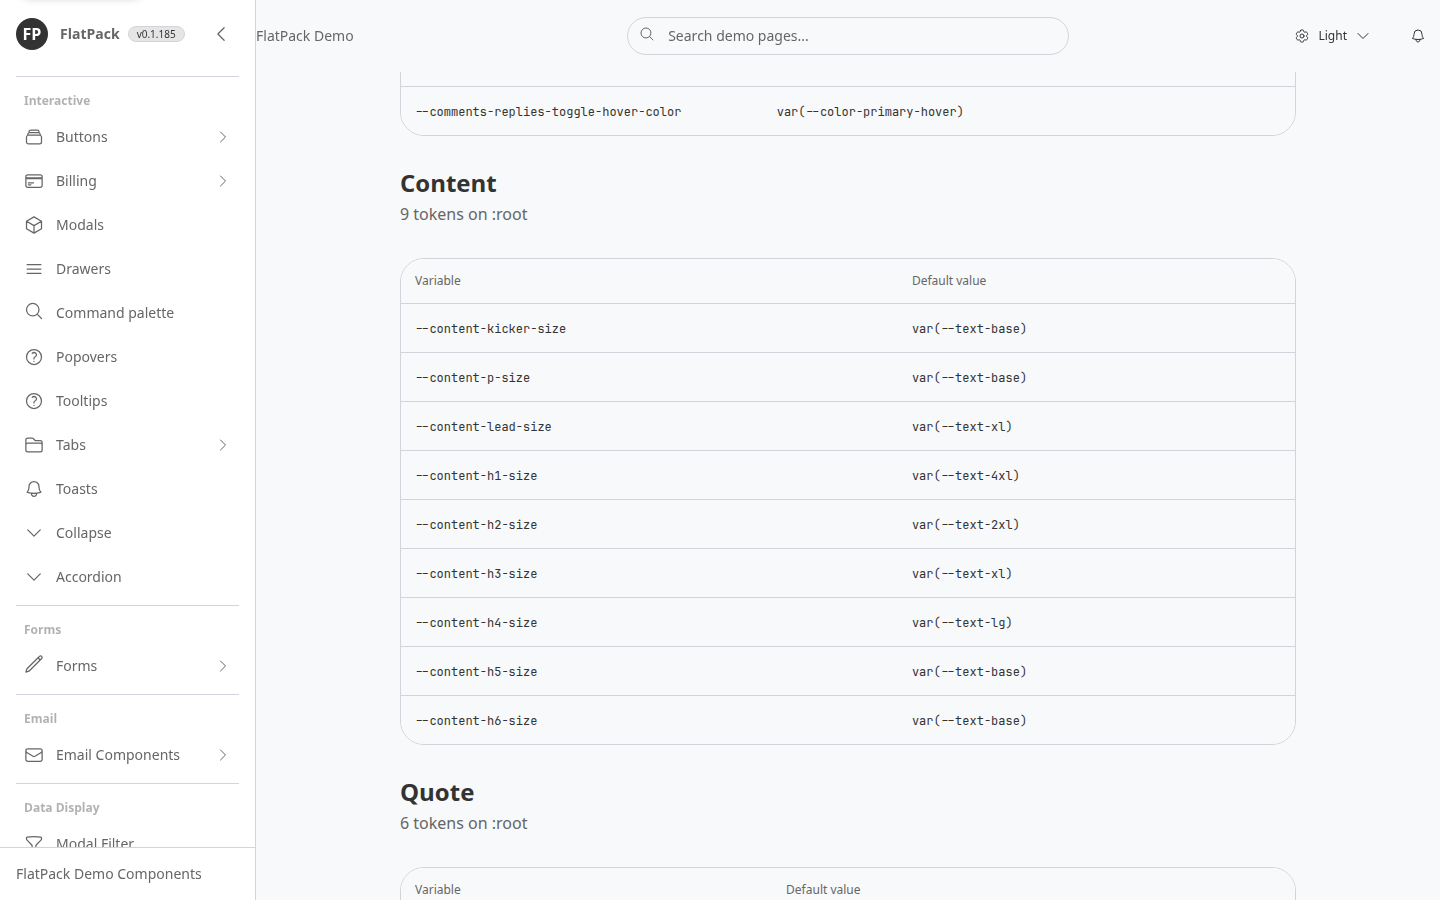
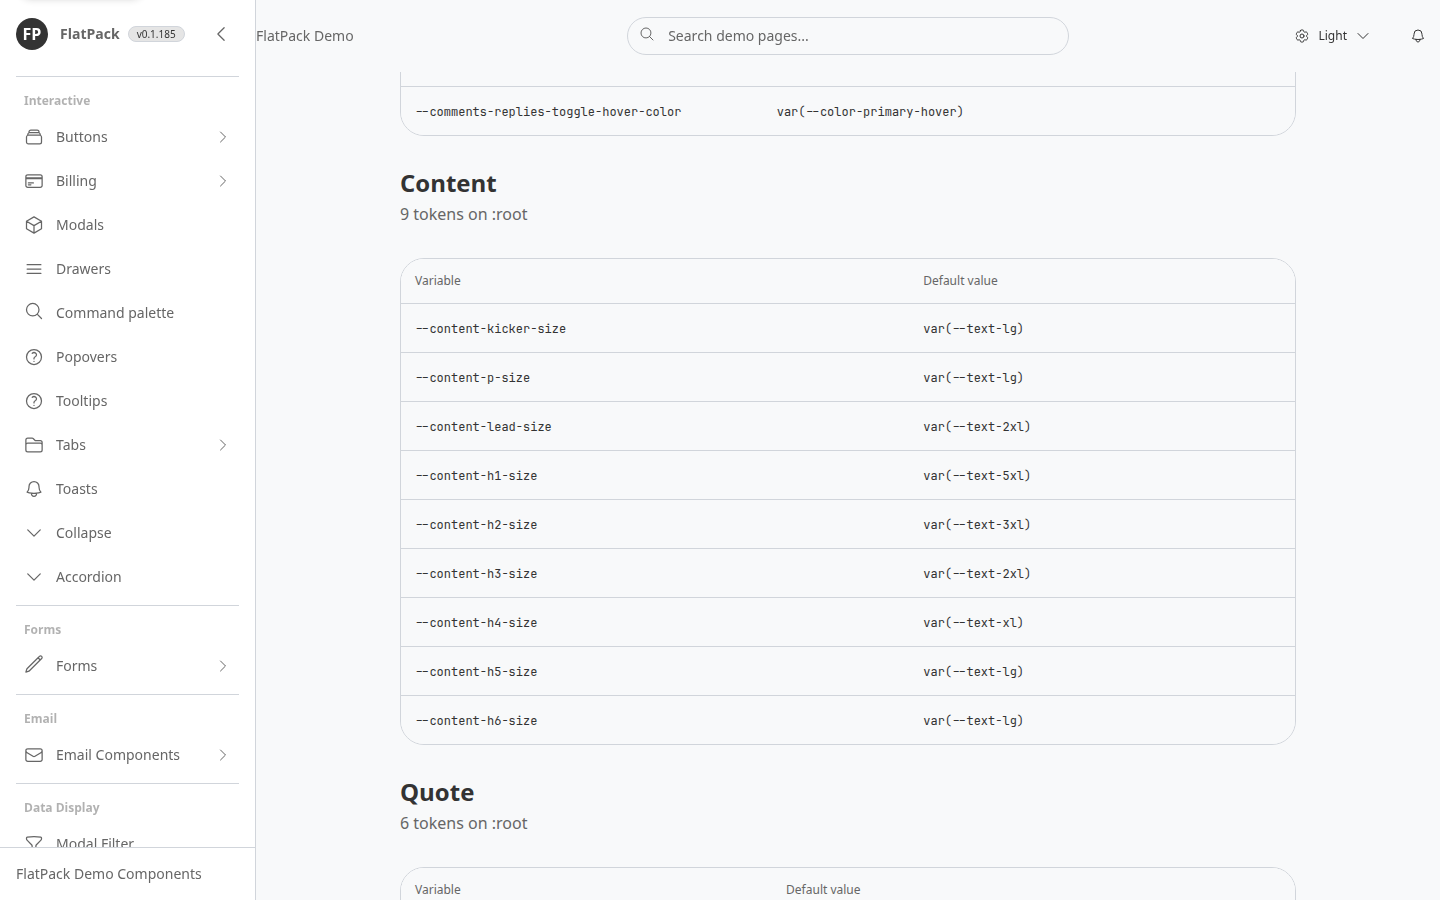
feat(content): bind reading type to --text-lg body
Rebind --content-*-size one step up the kit scale so body and kicker are 18px. Drop the sm h1 override now that --content-h1-size is --text-5xl.

diff --git a/app/assets/stylesheets/flat_pack/application.css b/app/assets/stylesheets/flat_pack/application.css
@@ -419,7 +419,7 @@
 
 /* Long-form reading type. Unlayered so Tailwind preflight cannot collapse
  * headings to inherit. Bare CMS HTML (h1, p, ul) picks up the same scale as
- * the main Content demo: kicker, display title, lead, then body at 16px / 1.75
+ * the main Content demo: kicker, display title, lead, then body at 18px / 1.75
  * with 2rem stack and 2.5rem after the lead.
  */
 .fp-content {
@@ -435,44 +435,38 @@
 }
 
 .fp-content h1 {
-  font-size: var(--content-h1-size, var(--text-4xl, 2.25rem));
+  font-size: var(--content-h1-size, var(--text-5xl, 3rem));
   font-weight: 600;
   margin-top: 0.5rem;
 }
 
-@media (min-width: 640px) {
-  .fp-content h1 {
-    font-size: var(--text-5xl, 3rem);
-  }
-}
-
 .fp-content h2 {
-  font-size: var(--content-h2-size, var(--text-2xl, 1.5rem));
+  font-size: var(--content-h2-size, var(--text-3xl, 1.875rem));
   font-weight: 700;
   margin-top: 2rem;
 }
 
 .fp-content h3 {
-  font-size: var(--content-h3-size, var(--text-xl, 1.25rem));
+  font-size: var(--content-h3-size, var(--text-2xl, 1.5rem));
   font-weight: 700;
   margin-top: 2rem;
 }
 
 .fp-content h4 {
-  font-size: var(--content-h4-size, var(--text-lg, 1.125rem));
+  font-size: var(--content-h4-size, var(--text-xl, 1.25rem));
   font-weight: 700;
   margin-top: 2rem;
 }
 
 .fp-content h5,
 .fp-content h6 {
-  font-size: var(--content-h5-size, var(--text-base, 1rem));
+  font-size: var(--content-h5-size, var(--text-lg, 1.125rem));
   font-weight: 700;
   margin-top: 2rem;
 }
 
 .fp-content h6 {
-  font-size: var(--content-h6-size, var(--text-base, 1rem));
+  font-size: var(--content-h6-size, var(--text-lg, 1.125rem));
 }
 
 .fp-content p,
@@ -481,7 +475,7 @@
 }
 
 .fp-content p {
-  font-size: var(--content-p-size, var(--text-base, 1rem));
+  font-size: var(--content-p-size, var(--text-lg, 1.125rem));
   line-height: 1.75;
   margin-top: 2rem;
 }
@@ -489,7 +483,7 @@
 .fp-content > p:first-child:has(+ :is(h1, h2, h3)),
 .fp-content .fp-content-kicker {
   color: var(--color-primary);
-  font-size: var(--content-kicker-size, var(--text-base, 1rem));
+  font-size: var(--content-kicker-size, var(--text-lg, 1.125rem));
   font-weight: 600;
   line-height: 1.75;
   margin-top: 0;
@@ -497,7 +491,7 @@
 
 .fp-content h1 + p,
 .fp-content .fp-content-lead {
-  font-size: var(--content-lead-size, var(--text-xl, 1.25rem));
+  font-size: var(--content-lead-size, var(--text-2xl, 1.5rem));
   line-height: 2;
   margin-top: 1.5rem;
 }

diff --git a/app/assets/stylesheets/flat_pack/variables.css b/app/assets/stylesheets/flat_pack/variables.css
@@ -1189,15 +1189,15 @@ input.flat-pack-input[type="search"]::-ms-reveal {
   --page-title-h4-size: var(--text-xl);
   --page-title-h5-size: var(--text-lg);
   --page-title-h6-size: var(--text-base);
-  --content-kicker-size: var(--text-base);
-  --content-p-size: var(--text-base);
-  --content-lead-size: var(--text-xl);
-  --content-h1-size: var(--text-4xl);
-  --content-h2-size: var(--text-2xl);
-  --content-h3-size: var(--text-xl);
-  --content-h4-size: var(--text-lg);
-  --content-h5-size: var(--text-base);
-  --content-h6-size: var(--text-base);
+  --content-kicker-size: var(--text-lg);
+  --content-p-size: var(--text-lg);
+  --content-lead-size: var(--text-2xl);
+  --content-h1-size: var(--text-5xl);
+  --content-h2-size: var(--text-3xl);
+  --content-h3-size: var(--text-2xl);
+  --content-h4-size: var(--text-xl);
+  --content-h5-size: var(--text-lg);
+  --content-h6-size: var(--text-lg);
   --shadow-sm: 0 2px 6px -2px rgb(0 0 0 / 0.08);
   --shadow-md: 0 8px 18px -6px rgb(0 0 0 / 0.14);
   --shadow-lg: 0 18px 30px -10px rgb(0 0 0 / 0.18);

diff --git a/test/lib/flat_pack/type_tokens_test.rb b/test/lib/flat_pack/type_tokens_test.rb
@@ -22,10 +22,15 @@ module FlatPack
       assert_match(/--text-5xl:\s*3rem/, root_block)
       assert_match(/--page-title-h1-size:\s*var\(--text-4xl\)/, root_block)
       assert_match(/--page-title-h6-size:\s*var\(--text-base\)/, root_block)
-      assert_match(/--content-p-size:\s*var\(--text-base\)/, root_block)
-      assert_match(/--content-h1-size:\s*var\(--text-4xl\)/, root_block)
-      assert_match(/--content-h2-size:\s*var\(--text-2xl\)/, root_block)
-      assert_match(/--content-h6-size:\s*var\(--text-base\)/, root_block)
+      assert_match(/--content-p-size:\s*var\(--text-lg\)/, root_block)
+      assert_match(/--content-kicker-size:\s*var\(--text-lg\)/, root_block)
+      assert_match(/--content-lead-size:\s*var\(--text-2xl\)/, root_block)
+      assert_match(/--content-h1-size:\s*var\(--text-5xl\)/, root_block)
+      assert_match(/--content-h2-size:\s*var\(--text-3xl\)/, root_block)
+      assert_match(/--content-h3-size:\s*var\(--text-2xl\)/, root_block)
+      assert_match(/--content-h4-size:\s*var\(--text-xl\)/, root_block)
+      assert_match(/--content-h5-size:\s*var\(--text-lg\)/, root_block)
+      assert_match(/--content-h6-size:\s*var\(--text-lg\)/, root_block)
     end
 
     test "root applies the kit face and antialiased smoothing" do
@@ -47,8 +52,9 @@ module FlatPack
       assert_includes css, ".fp-text-pretty"
       assert_includes css, "text-wrap: pretty"
       assert_includes css, ".fp-content"
-      assert_includes css, "font-size: var(--content-p-size, var(--text-base, 1rem))"
-      assert_includes css, "font-size: var(--content-h1-size, var(--text-4xl, 2.25rem))"
+      assert_includes css, "font-size: var(--content-p-size, var(--text-lg, 1.125rem))"
+      assert_includes css, "font-size: var(--content-h1-size, var(--text-5xl, 3rem))"
+      refute_match(/@media \(min-width: 640px\) \{\s*\.fp-content h1/, css)
       assert_includes css, "/* Long-form reading type. Unlayered so Tailwind preflight cannot collapse"
     end
 

diff --git a/test/dummy/test/requests/pages_demo_routes_test.rb b/test/dummy/test/requests/pages_demo_routes_test.rb
@@ -673,7 +673,7 @@ class PagesDemoRoutesTest < ActionDispatch::IntegrationTest
     assert_includes response.body, "One-Click Distribution."
     assert_includes response.body, "No Publisher? No Problem."
     refute_includes response.body, "class=\"mt-2 text-4xl"
-    assert_includes response.body, "FlatPack::Content::Component.new"
+    assert_includes response.body, "Body is 18px."
     assert_includes response.body, ">content</td>"
     assert_includes response.body, ">h1 / p / ul</td>"
     assert_includes response.body, "**system_arguments"

diff --git a/docs/theming.md b/docs/theming.md
@@ -243,7 +243,7 @@ Kit CSS defines `.fp-hit-target`, `.fp-hit-target-inline`, and `.fp-hit-slop`. `
 
 `--font-*` and `--text-*` are set on `:root` (not only inside `@theme`). `:root` also sets `font-family: var(--font-sans)` and antialiased smoothing. Hosts override `--font-sans` with a brand face. There is no kit webfont. If host Tailwind loads last, re-set `--font-sans` and the kit `--radius-*` values on unlayered `:root` in the host stylesheet — Tailwind’s `@layer theme` stack otherwise replaces the kit face and the kit radii (rich-text chrome follows `--radius-md`).
 
-`--page-title-h1-size` through `--page-title-h6-size` alias `--text-4xl` down to `--text-base`. `--content-p-size` is `--text-base` (16px). `--content-h1-size` is `--text-4xl` (2.25rem; 3rem from `640px`). `--content-h2-size` is `--text-2xl`. `--content-lead-size` and `--content-kicker-size` cover the dek and the label above the title. Bare tags inside `.fp-content` pick these up.
+`--page-title-h1-size` through `--page-title-h6-size` alias `--text-4xl` down to `--text-base`. `--content-p-size` and `--content-kicker-size` are `--text-lg` (1.125rem / 18px). `--content-lead-size` is `--text-2xl`. `--content-h1-size` is `--text-5xl` (3rem). `--content-h2-size` is `--text-3xl`. `--content-h3-size` through `--content-h6-size` step down the same kit scale to `--text-lg`. Bare tags inside `.fp-content` pick these up.
 
 Kit CSS defines `.fp-tabular-nums` (`font-variant-numeric: tabular-nums`), `.fp-text-balance`, and `.fp-text-pretty`. Use tabular nums on live numbers (pagination, meters, timestamps, chart axes). Use balance on titles. Use pretty on short supporting copy. Labels are sentence case — do not force `uppercase tracking-widest` on taglines, table headers, or section titles. Avatar initials may stay `uppercase`.
 

diff --git a/docs/demo/pr215/MANIFEST.md b/docs/demo/pr215/MANIFEST.md
@@ -9,9 +9,9 @@ Viewport **1440×1100** for `/demo/text/content`. Viewport **1440×900** for `/t
 | `before-text-content.png` | main | `/demo/text/content` | Page from the Content title. Tailwind classes on each tag. No `.fp-content`. |
 | `after-text-content.png` | this branch | `/demo/text/content` | Same viewport from the Content title. Param table plus the article start inside `FlatPack::Content::Component`. |
 | `before-text-content-article.png` | main | `/demo/text/content` | Same viewport, scrolled to the long-form card (`Publish Faster` / `A Mastered Workflow`). |
-| `after-text-content-article.png` | this branch | `/demo/text/content` | Same viewport, scrolled to the long-form card. Bare tags in `.fp-content`. Type and spacing match main. |
+| `after-text-content-article.png` | this branch | `/demo/text/content` | Same viewport, scrolled to the long-form card. Bare tags in `.fp-content`. Computed: kicker/body 18px, lead 24px, h1 48px. |
 | `after-text-content-lists.png` | this branch | `/demo/text/content` | Lists and quote section (new on this branch). No main equivalent. |
 | `before-themes.png` | main | `/themes#comments` | Token groups at Comments. No Content group. |
-| `after-themes.png` | this branch | `/themes#content` | Content tokens (`--content-p-size` → `var(--text-base)`, `--content-h1-size` → `var(--text-4xl)`). |
+| `after-themes.png` | this branch | `/themes#content` | Content tokens (`--content-p-size` → `var(--text-lg)`, `--content-h1-size` → `var(--text-5xl)`). |
 
 Copies also live under `/opt/cursor/artifacts/pr215/`.

diff --git a/docs/components/content.md b/docs/components/content.md
@@ -1,7 +1,7 @@
 # Content
 
 ## Purpose
-Wrap long-form HTML in a `div.fp-content` so bare `h1`, `p`, `ul`, and the rest pick up the kit reading scale. Same sizes and spacing as the main Content demo: kicker, display title, lead, then body at 16px / 1.75.
+Wrap long-form HTML in a `div.fp-content` so bare `h1`, `p`, `ul`, and the rest pick up the kit reading scale. Same sizes and spacing as the main Content demo: kicker, display title, lead, then body at 18px / 1.75.
 
 ## When to use
 Use Content for marketing copy, editorial sections, docs, and CMS / WYSIWYG HTML. Drop the HTML in as-is. Do not use it for UI chrome, forms, or tables. Prefer `FlatPack::ContentEditor::Component` when the same region must be edited in place.
@@ -38,5 +38,5 @@ None. Descendant selectors style bare tags. Optional classes if you want to forc
 
 ## Dependencies
 - FlatPack install generator setup (`rails generate flat_pack:install`).
-- Theme tokens: `--content-p-size` (`--text-base`), `--content-lead-size`, `--content-h1-size` (`--text-4xl`, 3rem from `640px`), `--content-h2-size` through `--content-h6-size`, `--content-kicker-size`.
+- Theme tokens: `--content-p-size` (`--text-lg`, 1.125rem / 18px), `--content-kicker-size` (`--text-lg`), `--content-lead-size` (`--text-2xl`), `--content-h1-size` (`--text-5xl`, 3rem), `--content-h2-size` (`--text-3xl`) through `--content-h6-size` (`--text-lg`).
 - Styles ship unlayered in `flat_pack/application.css` on `.fp-content p`, `.fp-content h1`, and the other tags.

diff --git a/CHANGELOG.md b/CHANGELOG.md
@@ -18,13 +18,13 @@ and this project adheres to [Semantic Versioning](https://semver.org/spec/v2.0.0
 ## [0.1.185] - 2026-09-16
 
 ### Added
-- `FlatPack::Content::Component` renders a `div.fp-content`. Bare `p`, `h1`–`h6`, lists, quotes, links, and images take the same type and spacing as the main Content demo (kicker, `text-4xl` / `sm:text-5xl` title, `text-xl` lead, `text-base/7` body, `space-y-8` stack). Optional `.fp-content-kicker` and `.fp-content-lead` force those roles. Dummy `/demo/text/content` wraps the article and documents the API.
+- `FlatPack::Content::Component` renders a `div.fp-content`. Bare `p`, `h1`–`h6`, lists, quotes, links, and images take the kit reading scale (kicker and body `--text-lg` / 18px, lead `--text-2xl`, title `--text-5xl`, then `--text-3xl` down to `--text-lg`). Optional `.fp-content-kicker` and `.fp-content-lead` force those roles. Dummy `/demo/text/content` wraps the article and documents the API.
 
 ### Changed
 - Bumped the gem version to `0.1.185`.
 
 ### Upgrade notes
-- Wrap CMS or article HTML in `render FlatPack::Content::Component.new do |content| ... end`. Leave the tags bare — do not add per-element size classes. Redeploy so `meta.gem_version` shows `0.1.185`.
+- Wrap CMS or article HTML in `render FlatPack::Content::Component.new do |content| ... end`. Leave the tags bare. Body is `--text-lg` (18px). Do not add per-element size classes. Redeploy so `meta.gem_version` shows `0.1.185`.
 
 ## [0.1.184] - 2026-09-15
 

diff --git a/docs/custom_theming.md b/docs/custom_theming.md
@@ -616,15 +616,15 @@ Do not copy decorative `--gradient-*` tokens unless this theme actually needs a 
   --page-title-h4-size: var(--text-xl);
   --page-title-h5-size: var(--text-lg);
   --page-title-h6-size: var(--text-base);
-  --content-kicker-size: var(--text-base);
-  --content-p-size: var(--text-base);
-  --content-lead-size: var(--text-xl);
-  --content-h1-size: var(--text-4xl);
-  --content-h2-size: var(--text-2xl);
-  --content-h3-size: var(--text-xl);
-  --content-h4-size: var(--text-lg);
-  --content-h5-size: var(--text-base);
-  --content-h6-size: var(--text-base);
+  --content-kicker-size: var(--text-lg);
+  --content-p-size: var(--text-lg);
+  --content-lead-size: var(--text-2xl);
+  --content-h1-size: var(--text-5xl);
+  --content-h2-size: var(--text-3xl);
+  --content-h3-size: var(--text-2xl);
+  --content-h4-size: var(--text-xl);
+  --content-h5-size: var(--text-lg);
+  --content-h6-size: var(--text-lg);
 
   --shadow-sm: 0 1px 2px 0 rgb(0 0 0 / 0.05);
   --shadow-md: 0 4px 6px -1px rgb(0 0 0 / 0.1);
